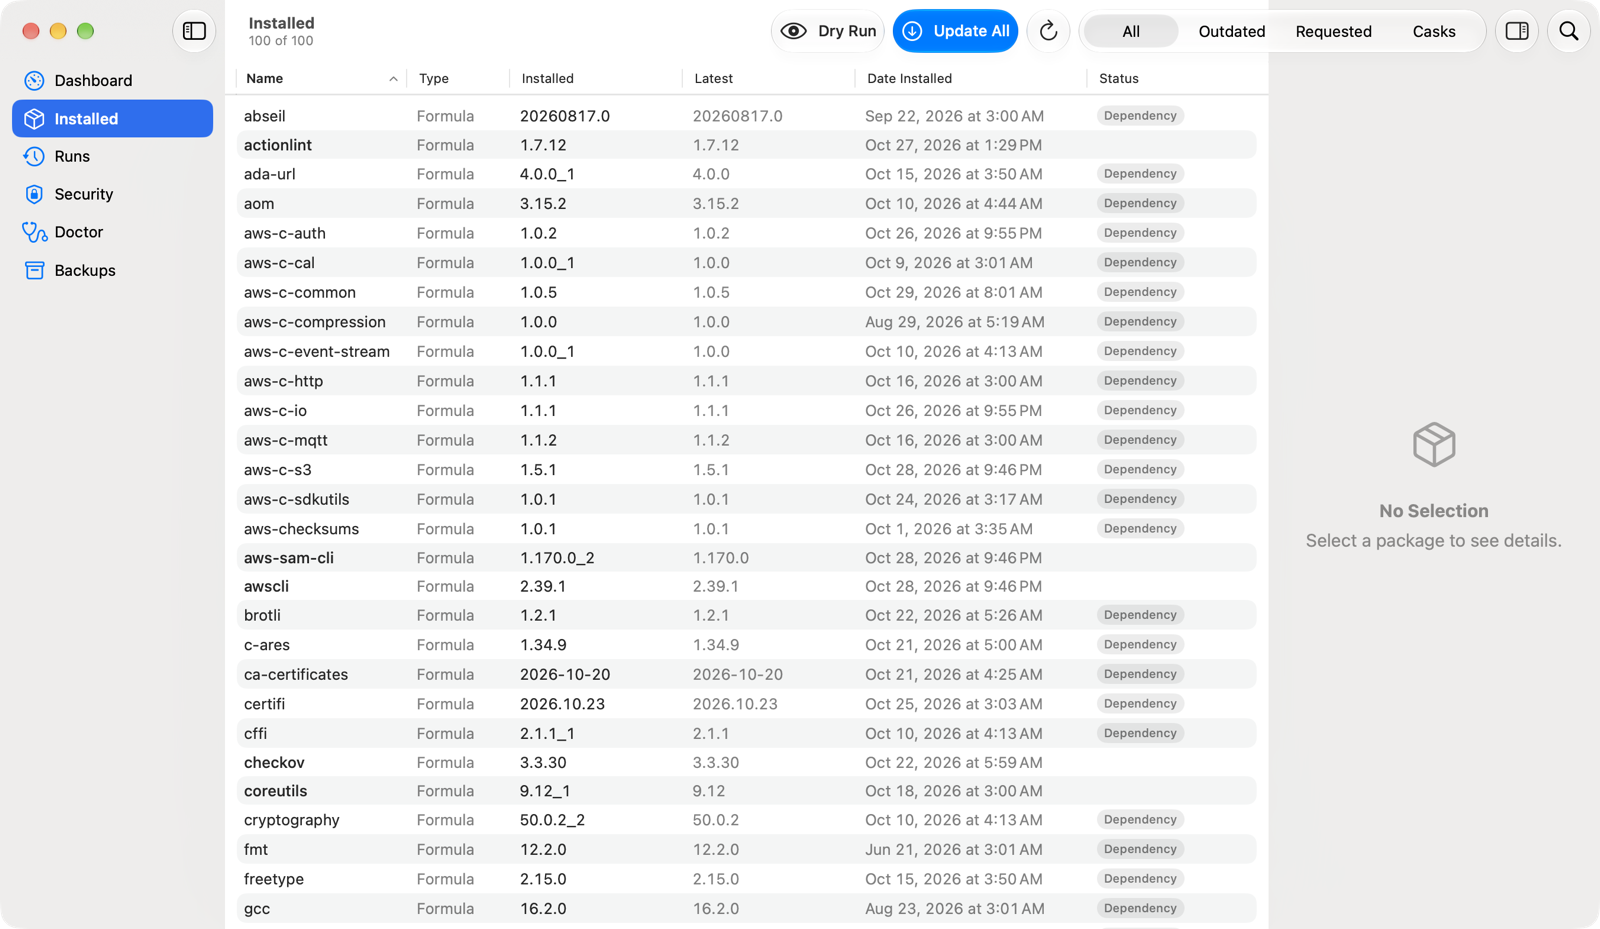
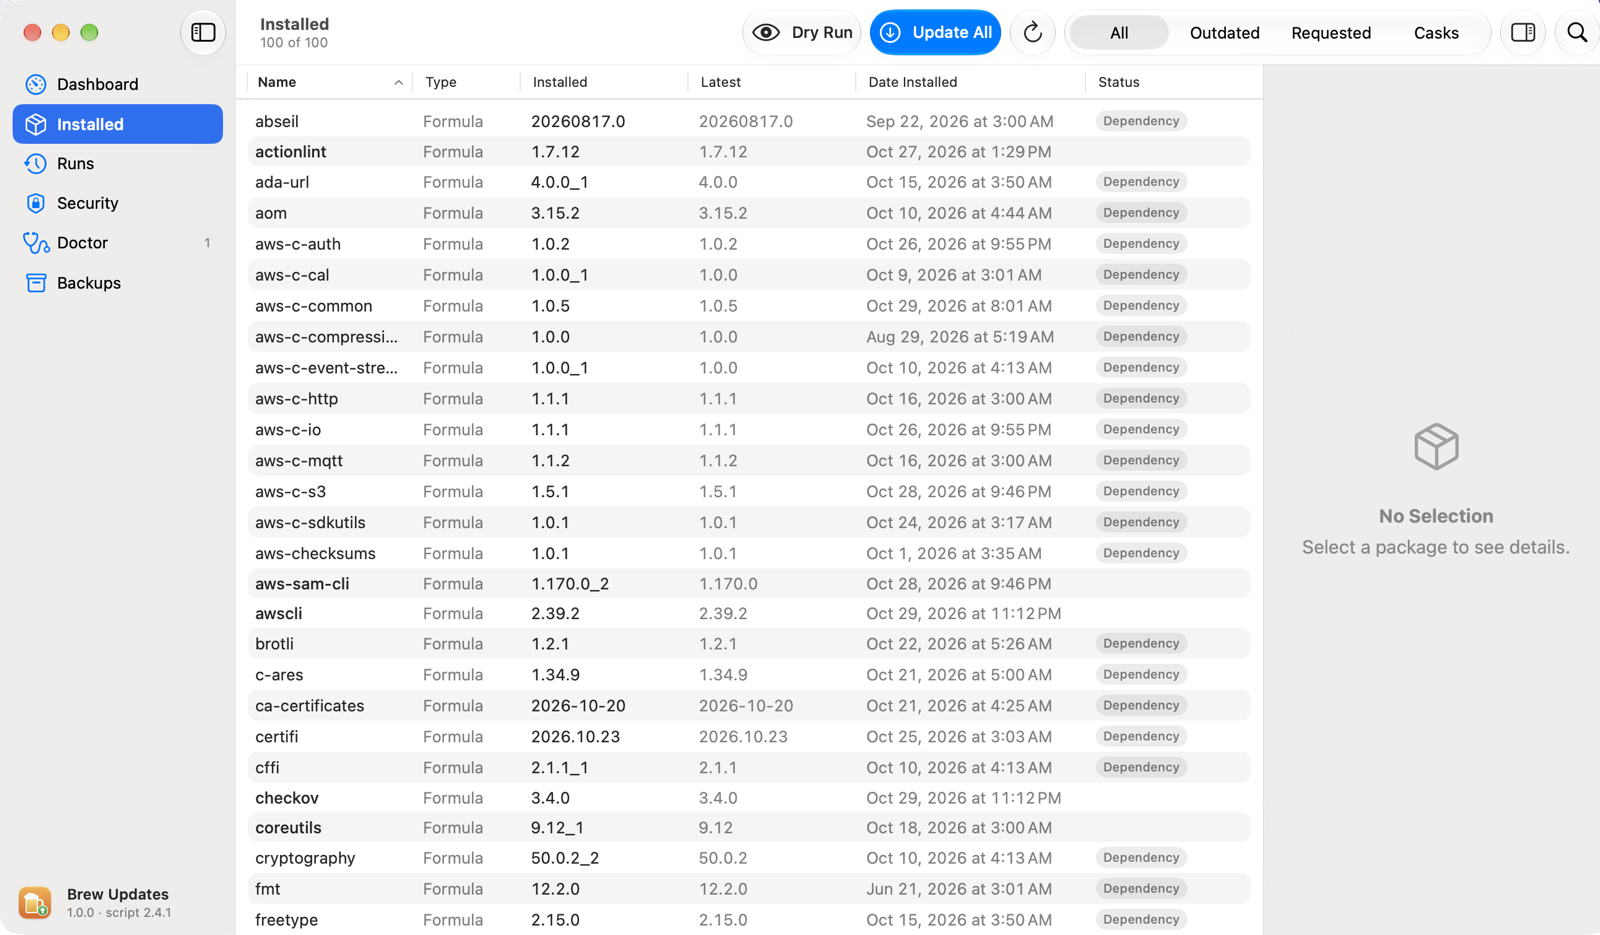
docs: refresh README screenshots and tour GIF for the current app
- New captures of all six screens (sidebar footer, 3-column dashboard,
  two-scanner Security tab, deprecation in Doctor) and a rebuilt GIF
- App table covers the Dashboard's scanner counts and colours, the
  Security filter and Found By column, deprecations and the footer
- Security section notes both scans run in dry runs since 2.4.1
- Known constraints: Grype false positives and ~/.grype.yaml ignores

diff --git a/README.md b/README.md
@@ -244,6 +244,7 @@ flowchart LR
 
 - Grype runs when `SECURITY_SCAN_ENABLED=true` (the default) and grype is installed. `brew vulns` runs when `VULNS_SCAN_ENABLED=true` (the default).
 - `SECURITY_SCAN_SEVERITY` sets the lowest level shown in the console and log for both scans (`LOW`, `MEDIUM`, `HIGH`, `CRITICAL`; default `HIGH,CRITICAL`). The reports and counts keep every level.
+- Both scans also run in dry runs (from 2.4.1): they only read what's installed, so every run has both reports.
 - Vulnerabilities are reported but never block the run. Before upgrading, the outdated formulae are checked with `brew vulns` and those with known vulnerabilities in the installed version are listed. Upgrades aren't held back: a vulnerable installed version is a reason to upgrade, and the new version's status is only known once it's installed. The scan after the upgrade shows what remains.
 - Deprecated and disabled formulae and casks come from `brew info --json=v2 --installed` and are listed in the run summary and on the app's Doctor screen.
 - `scripts/fix-vulnerabilities.sh` upgrades the formulae that usually carry the vulnerable dependencies, updates pip/urllib3, then scans again.
@@ -271,16 +272,17 @@ A native SwiftUI app in [`app/`](app/) with a menu bar extra and a main window. 
 
 | Screen | What it shows / does |
 | --- | --- |
-| Dashboard | Last run, outdated count, system and app version, open doctor issues |
+| Dashboard | Last run, schedule, outdated count, Grype and `brew vulns` counts side by side, open doctor issues, system and app versions. Numbers share one colour scale (green fine, orange worth a look, red fix soon) |
 | Installed | Formulae and casks with dependencies. Pin/unpin, exclude, upgrade selected, uninstall (dependency-aware). Cask apps found on disk; `auto_updates` casks show the app's own version |
 | Runs | Every run's summary and log, plus live output with Stop for runs started in the app |
-| Security | Latest scan findings, a trend chart with a date range, fix-available age, Scan Now |
-| Doctor | Each `brew doctor` warning explained with copyable fixes, history across runs, Check Now, plus the app's own checks (missing cask apps, unreadable casks) |
+| Security | Findings from either scanner or both (Found By column), severity filter that says what it hides, a per-scanner trend chart with a date range, fix-available age, Scan Now |
+| Doctor | Each `brew doctor` warning explained with copyable fixes, history across runs, Check Now, plus the app's own checks (missing cask apps, unreadable casks, deprecated or disabled packages with reason and replacement) |
 | Backups | Compare a Brewfile backup with what's installed or with the previous backup; restore missing taps, formulae and casks |
 | Settings (⌘,) | Schedule on/off, time and days, run flags (rewrites the plist, then reloads). Every `~/.brew_update_config` setting |
 | Menu bar / Dock | Warning icon after a failed run; Dock badge with the update count |
 | Run menu | Dry Run (⇧⌘U), Update All… (⌘U) and Stop (⌘.), also on the toolbar as separate Dry Run and Update All buttons |
-| Help | A separate Help window explaining each screen |
+| Help | A separate Help window (⌘?) explaining each screen |
+| Sidebar footer | App icon, app and script versions; click for About |
 
 ```mermaid
 sequenceDiagram
@@ -360,7 +362,7 @@ Exclusions match exact names (`node` doesn't exclude `node@20`), and pinned form
 
 ```text
 .
-├── brew-updates.command        # The update script (~1,700 lines)
+├── brew-updates.command        # The update script (~1,950 lines)
 ├── scripts/
 │   ├── setup.sh                # Deploy script to ~/bin, install/reload LaunchAgent (--reset-launchagent, --uninstall)
 │   ├── uninstall.sh            # Remove script + LaunchAgent; --logs/--backups/--config/--all, --dry-run
@@ -475,6 +477,7 @@ For anything else, run `--dry-run --verbose` and read the run's `.log` and `.doc
 - **Bash 3.2.** The LaunchAgent runs `/bin/bash`, so the script avoids associative arrays and `mapfile`.
 - **Self-updating casks are skipped.** `auto_updates` casks aren't upgraded or counted as outdated. The app shows the app's own version for them instead.
 - **Scans are snapshots.** The app hides findings for formulae that are no longer installed. Scan Now results aren't added to the trend chart.
+- **Scanner false positives.** Grype sometimes misreads Homebrew version numbers, e.g. it ranks ImageMagick's `7.1.2-34` below `7.1.2` and reports CVE-2023-5341 ([anchore/grype#3865](https://github.com/anchore/grype/issues/3865)). Hide a specific match with an `ignore:` rule (vulnerability + package name) in `~/.grype.yaml`, which Grype reads on every scan, and remove it once Grype is fixed.
 - **No bottle provenance check.** `brew verify <formula>` can check a bottle's build attestation, but it downloads the bottle and needs the GitHub CLI signed in, so runs don't call it. Use it by hand when you want to check a specific formula.
 - **Personal signing.** The app is signed with an Apple Development certificate (or ad hoc), not notarized, so a shared copy needs a one-time Gatekeeper override. See [Sharing with others](#sharing-with-others).
 

diff --git a/docs/CHANGELOG.md b/docs/CHANGELOG.md
@@ -46,6 +46,8 @@ and this project adheres to [Semantic Versioning](https://semver.org/spec/v2.0.0
   grype versions without the date show "—"
 
 #### Changed
+- README: new screenshots and tour GIF of the current app; app table, security section and
+  Known constraints updated (dry-run scans, sidebar footer, Grype false positives)
 - Help: Dashboard, Runs, Security, Doctor and Settings pages cover the second scanner, the
   severity filter, deprecations, the new Dashboard layout and the sidebar footer; Troubleshooting
   explains hiding a scanner's false positive with `~/.grype.yaml`
